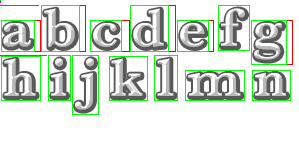
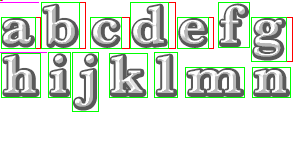
Changed image pixel info format and fixed bugs

diff --git a/Data/Plugins/scripts.rb b/Data/Plugins/scripts.rb
@@ -121,7 +121,7 @@ module SETTINGS
   #
   # DEFAULT: false    (OFF)
   #-~-~-~-~-~-~-~-~-~-~-~-~-~-~-~-~-~-~-~-~-~-~-~-~-~-~-~-~-~-~-~-~-~-~-~-~-~-~-
-  DEFAULT_FONT = "bmf_example"
+  DEFAULT_FONT = "POPit"
 
   #-~-~-~-~-~-~-~-~-~-~-~-~-~-~-~-~-~-~-~-~-~-~-~-~-~-~-~-~-~-~-~-~-~-~-~-~-~-~-
   # - Center Vertical -
@@ -460,7 +460,6 @@ module General_Helper
       str.to_s.each_char do |char|
         char_data = font.char_data_for(char)
         next unless char_data
-        puts "calculate_text_width: #{font.letter_spacing[0]}, #{char_data.x_offset}, #{char_data.x_advance}"
         text_width += font.letter_spacing[0] + char_data.x_offset + char_data.x_advance
         text_width += font.kerning(last_char, char) if last_char
         last_char = char
@@ -469,7 +468,7 @@ module General_Helper
     else
       text_width = 0.0
       char_data = font.char_data_for(str.to_s)
-      text_width += char_data.x_advance if char_data
+      text_width += font.letter_spacing[0] + char_data.x_advance if char_data
     end
     text_width
   end
@@ -841,7 +840,7 @@ module Image_Font_Parser
 
   def parse_line_starts(bitmap)
     bitmap.height.times do |y|
-      next if y < 3 # Config pixels
+      next if y < 1 # Config pixels
       @@line_starts << y if is_line_start?(0, y, bitmap)
     end
   end
@@ -849,7 +848,7 @@ module Image_Font_Parser
   def parse_bitmap(bitmap)
     bitmap.width.times do |x|
       bitmap.height.times do |y|
-        next if x == 0 && y < 3 # First three pixels are configuration pixels
+        next if x < 3 && y == 0 # First three pixels are configuration pixels
         store_dimension_data(x, y, bitmap) if is_valid_char_outline?(x, y, bitmap) && !already_stored?(x, y)
       end
     end
@@ -939,8 +938,8 @@ module Image_Font_Parser
 
   def set_vars(bitmap)
     @@char_dimensions_color = bitmap.get_pixel(0,0)
-    @@char_x_advance_color  = bitmap.get_pixel(0,1)
-    @@char_line_start_color = bitmap.get_pixel(0,2)
+    @@char_x_advance_color  = bitmap.get_pixel(1,0)
+    @@char_line_start_color = bitmap.get_pixel(2,0)
     @@char_data             = []
     @@line_starts           = []
     @@stored_control_data   = []
@@ -980,9 +979,9 @@ end
 
 # Load all font files
 Dir.glob("#{TDD::ABF::SETTINGS::FOLDER}/*.bft.{jpg,png,bmp}") do |file|
-  puts "> Reading bft file: (#{file}) | Please wait..." if TDD::ABF::SETTINGS::DEBUG_MODE
+  puts "> Reading bft file: \"#{file}\" | Please wait..." if TDD::ABF::SETTINGS::DEBUG_MODE
   font = TDD::ABF::Font_Database.load_font(file, TDD::ABF::Image_Font_Parser)
-  #font = TDD::ABF::Font_Database.load_font(load_data(file))
+  puts ">> Font loaded as: \"#{font.name}\"" if TDD::ABF::SETTINGS::DEBUG_MODE
 end
 # Control settings
 if TDD::ABF::SETTINGS::DEFAULT_FONT && !TDD::ABF::Font_Database.has_font?(TDD::ABF::SETTINGS::DEFAULT_FONT)

diff --git a/Data/Plugins/TDD_Ace_Bitmap_Fonts/Parsers/Image Font Parser/Image_Font_Parser.rb b/Data/Plugins/TDD_Ace_Bitmap_Fonts/Parsers/Image Font Parser/Image_Font_Parser.rb
@@ -15,7 +15,7 @@ module Image_Font_Parser
 
   def parse_line_starts(bitmap)
     bitmap.height.times do |y|
-      next if y < 3 # Config pixels
+      next if y < 1 # Config pixels
       @@line_starts << y if is_line_start?(0, y, bitmap)
     end
   end
@@ -23,7 +23,7 @@ module Image_Font_Parser
   def parse_bitmap(bitmap)
     bitmap.width.times do |x|
       bitmap.height.times do |y|
-        next if x == 0 && y < 3 # First three pixels are configuration pixels
+        next if x < 3 && y == 0 # First three pixels are configuration pixels
         store_dimension_data(x, y, bitmap) if is_valid_char_outline?(x, y, bitmap) && !already_stored?(x, y)
       end
     end
@@ -113,8 +113,8 @@ module Image_Font_Parser
 
   def set_vars(bitmap)
     @@char_dimensions_color = bitmap.get_pixel(0,0)
-    @@char_x_advance_color  = bitmap.get_pixel(0,1)
-    @@char_line_start_color = bitmap.get_pixel(0,2)
+    @@char_x_advance_color  = bitmap.get_pixel(1,0)
+    @@char_line_start_color = bitmap.get_pixel(2,0)
     @@char_data             = []
     @@line_starts           = []
     @@stored_control_data   = []

diff --git a/Data/Plugins/TDD_Ace_Bitmap_Fonts/General_Helper.rb b/Data/Plugins/TDD_Ace_Bitmap_Fonts/General_Helper.rb
@@ -18,7 +18,6 @@ module General_Helper
       str.to_s.each_char do |char|
         char_data = font.char_data_for(char)
         next unless char_data
-        puts "calculate_text_width: #{font.letter_spacing[0]}, #{char_data.x_offset}, #{char_data.x_advance}"
         text_width += font.letter_spacing[0] + char_data.x_offset + char_data.x_advance
         text_width += font.kerning(last_char, char) if last_char
         last_char = char
@@ -27,7 +26,7 @@ module General_Helper
     else
       text_width = 0.0
       char_data = font.char_data_for(str.to_s)
-      text_width += char_data.x_advance if char_data
+      text_width += font.letter_spacing[0] + char_data.x_advance if char_data
     end
     text_width
   end

diff --git a/Data/Plugins/TDD_Ace_Bitmap_Fonts/Parsers/Image Font Parser/load.rb b/Data/Plugins/TDD_Ace_Bitmap_Fonts/Parsers/Image Font Parser/load.rb
@@ -11,7 +11,7 @@ end
 
 # Load all font files
 Dir.glob("#{TDD::ABF::SETTINGS::FOLDER}/*.bft.{jpg,png,bmp}") do |file|
-  puts "> Reading bft file: (#{file}) | Please wait..." if TDD::ABF::SETTINGS::DEBUG_MODE
+  puts "> Reading bft file: \"#{file}\" | Please wait..." if TDD::ABF::SETTINGS::DEBUG_MODE
   font = TDD::ABF::Font_Database.load_font(file, TDD::ABF::Image_Font_Parser)
-  #font = TDD::ABF::Font_Database.load_font(load_data(file))
+  puts ">> Font loaded as: \"#{font.name}\"" if TDD::ABF::SETTINGS::DEBUG_MODE
 end

diff --git a/Data/Plugins/TDD_Ace_Bitmap_Fonts/Settings.rb b/Data/Plugins/TDD_Ace_Bitmap_Fonts/Settings.rb
@@ -120,7 +120,7 @@ module SETTINGS
   #
   # DEFAULT: false    (OFF)
   #-~-~-~-~-~-~-~-~-~-~-~-~-~-~-~-~-~-~-~-~-~-~-~-~-~-~-~-~-~-~-~-~-~-~-~-~-~-~-
-  DEFAULT_FONT = "bmf_example"
+  DEFAULT_FONT = "POPit"
 
   #-~-~-~-~-~-~-~-~-~-~-~-~-~-~-~-~-~-~-~-~-~-~-~-~-~-~-~-~-~-~-~-~-~-~-~-~-~-~-
   # - Center Vertical -
